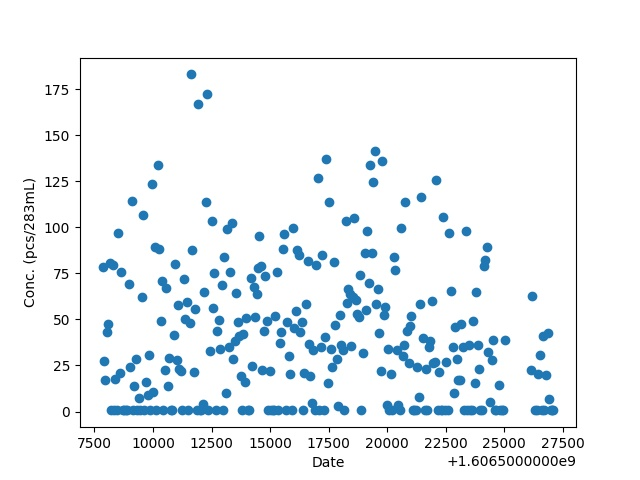
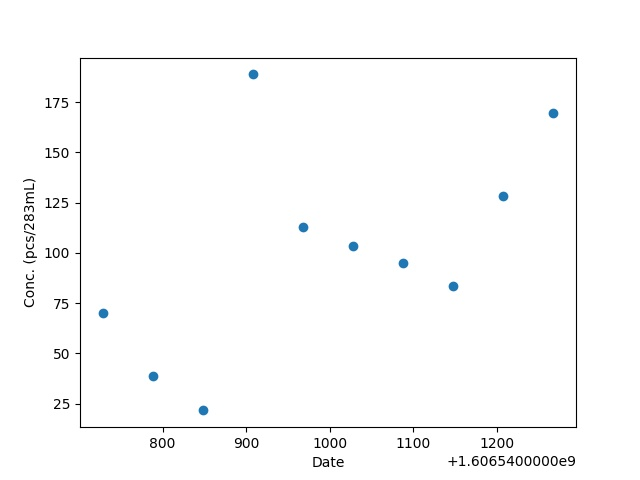
'added image'

diff --git a/dustSense.py b/dustSense.py
@@ -10,7 +10,7 @@ GPIO.setmode(GPIO.BCM) # use Broadcom chip numbering scheme
 dustPin = 2
 GPIO.setup(dustPin, GPIO.IN)
 
-plotUpdateMins = 5 # mins
+plotUpdateMins = 10 # mins
 minSampleWindow = 60 # 60 seconds sample time, minimum
 timestampVector = []
 datetimeVector = []
@@ -45,20 +45,20 @@ while True:
     timestampVector.append(time.time())
     datetimeVector.append(dateTime)
     concVector.append(concentration)
-    print(concVector)
     if entryCounter == plotUpdateMins: # update webpage ~every hour
         entryCounter = 0
         
         # 24 hr plot
         N = 24
-        if len(timestampVector) < 60*24:            
+        if len(timestampVector) <= 60*24:            
             #xLabelVec = np.linspace(timestampVector[0],timestampVector[-1],N)
             fig, ax = plt.subplots()
             #ax.axis([timestampVector[0],timestampVector[-1],0,10000])
             ax.scatter(timestampVector,concVector)
         else:
             xLabelVec = np.linspace(timestampVector[-60*24],timestampVector[-1],N)
-            fig, ax = plt.scatter(timestampVector[-60*24:],concVector[-60*24:])
+            fig, ax = plt.subplots()
+            ax.scatter(timestampVector[-60*24:],concVector[-60*24:])
             ax.axis([timestampVector[-60*24],timestampVector[-1],0,10000])
         #ax.set_xticks(range(N))
         #ax.set_xticklabels([time.gmtime(t).tm_hour for t in xLabelVec])
